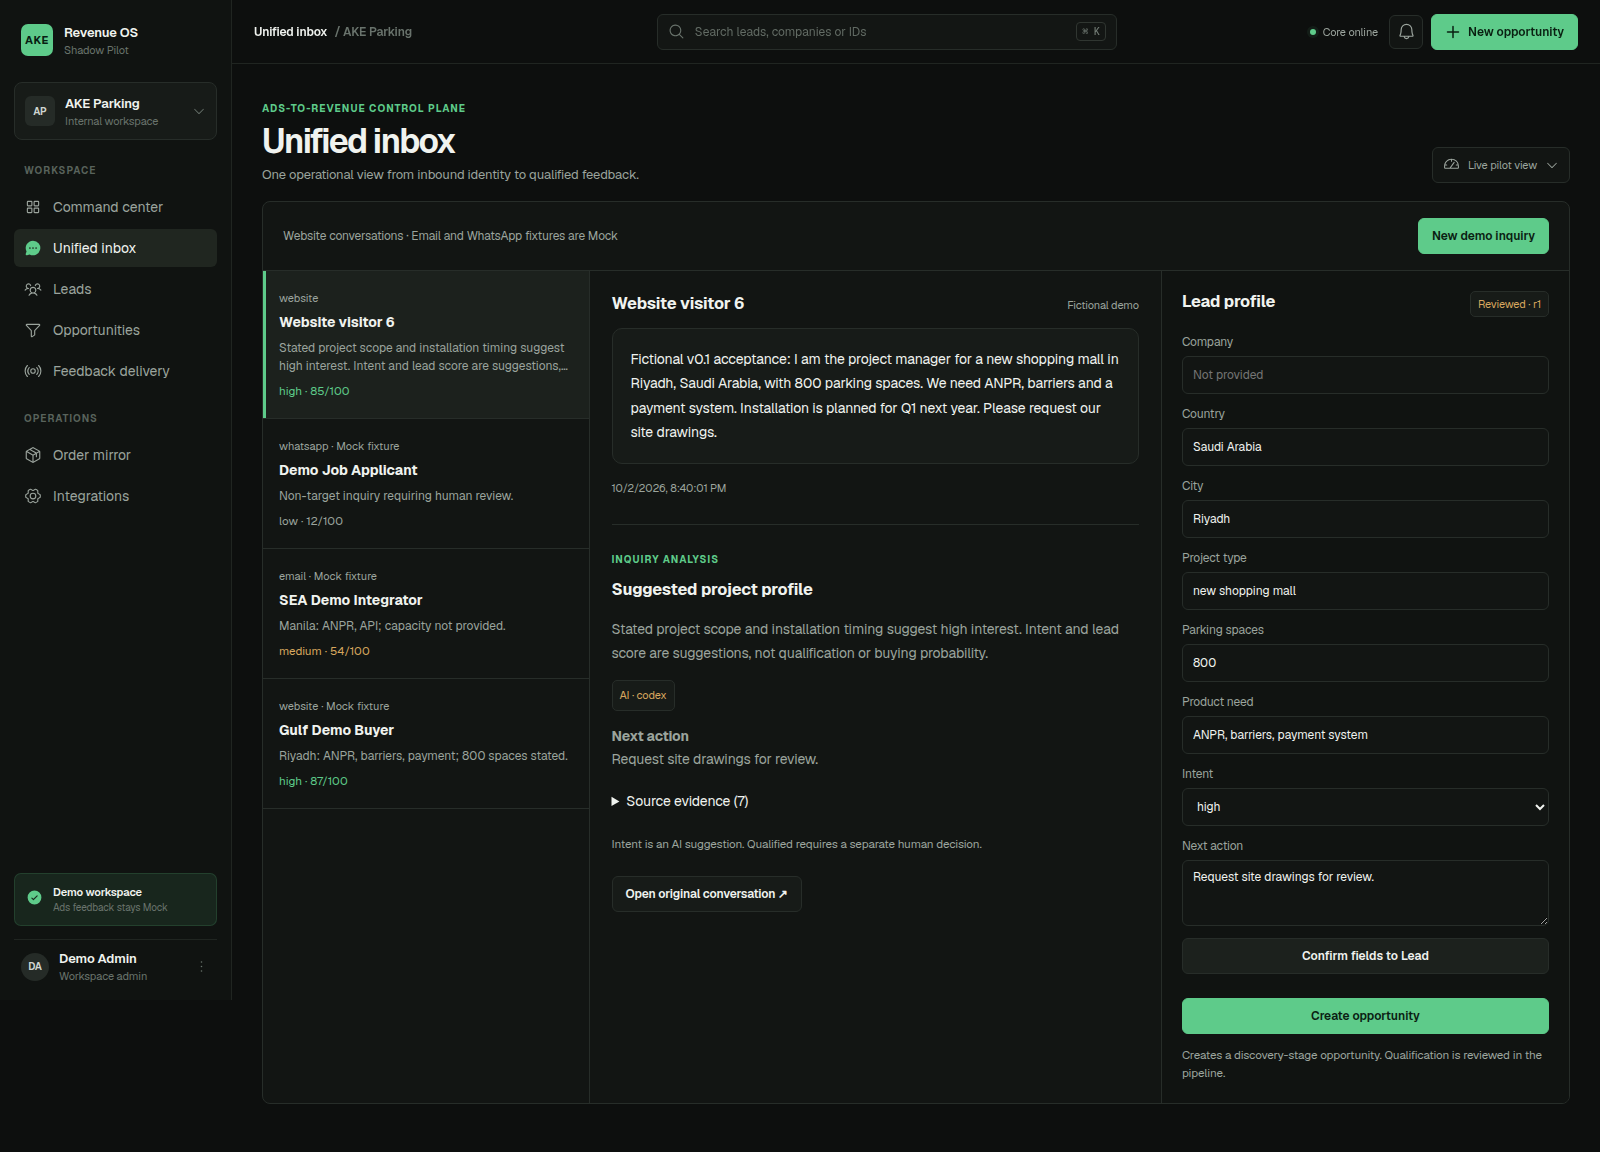
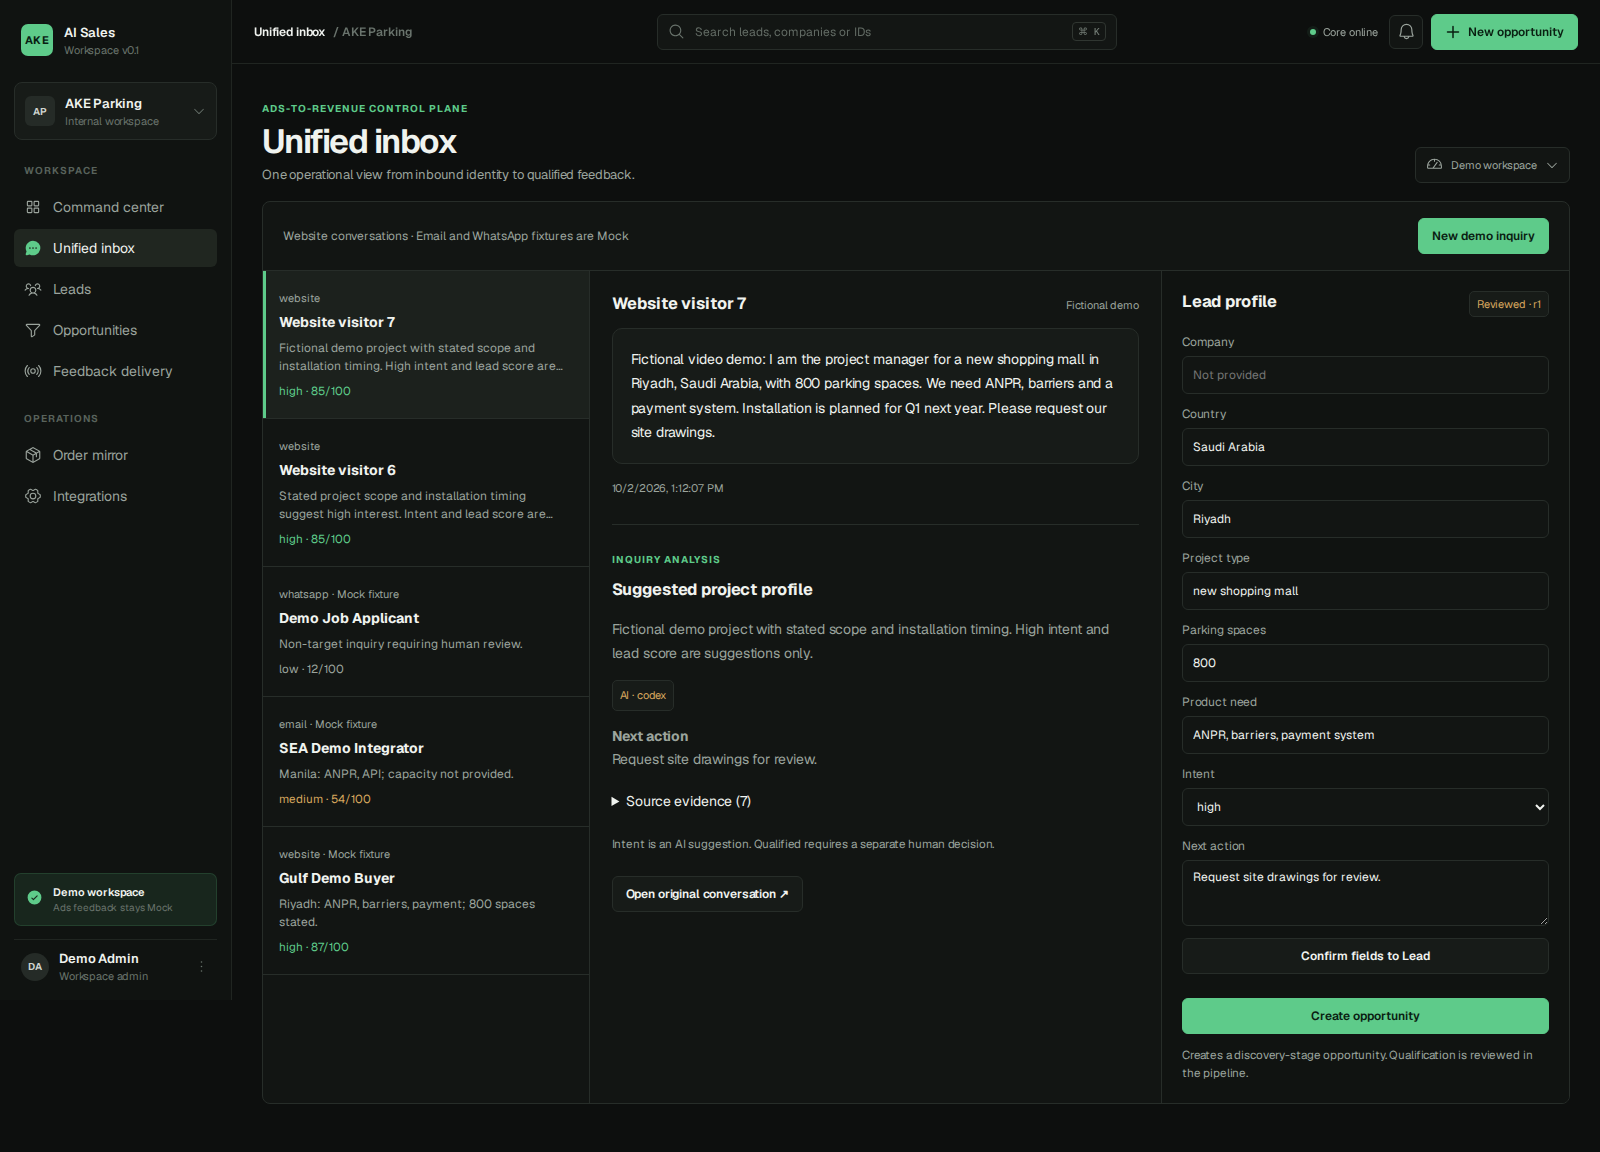
Publish verified walkthrough and final v0.1 acceptance evidence

diff --git a/scripts/render-demo.py b/scripts/render-demo.py
@@ -5,6 +5,8 @@ from pathlib import Path
 root = Path(sys.argv[1]).resolve()
 manifest = json.loads((root / 'recording.json').read_text())
 segments = manifest['segments']
+# Preserve any offset established by reviewing the recording's real scene transitions.
+video_offset = manifest.get('video_offset_seconds', 0)
 clips = root / 'clips'
 clips.mkdir(exist_ok=True)
 offset = 0
@@ -15,7 +17,7 @@ def clock(seconds, separator='.'):
 for index, segment in enumerate(segments):
     duration = segment['end'] - segment['start']
     path = clips / f'{index:02}.mp4'
-    subprocess.run(['ffmpeg','-v','error','-y','-ss',str(segment['start']),'-i',manifest['source'],'-t',str(duration),'-an','-vf','scale=1920:1008:force_original_aspect_ratio=decrease:flags=lanczos,pad=1920:1080:(ow-iw)/2:0:color=0x0d1110,fps=30','-c:v','libx264','-preset','fast','-crf','20','-pix_fmt','yuv420p',str(path)],check=True)
+    subprocess.run(['ffmpeg','-v','error','-y','-ss',str(segment['start']+video_offset),'-i',manifest['source'],'-t',str(duration),'-an','-vf','scale=1920:1008:force_original_aspect_ratio=decrease:flags=lanczos,pad=1920:1080:(ow-iw)/2:0:color=0x0d1110,fps=30','-c:v','libx264','-preset','fast','-crf','20','-pix_fmt','yuv420p',str(path)],check=True)
     actual = float(subprocess.check_output(['ffprobe','-v','error','-show_entries','format=duration','-of','default=noprint_wrappers=1:nokey=1',str(path)],text=True))
     # Split long captions into two readable thoughts on the same beat.
     words = segment['caption'].split()

diff --git a/scripts/record-demo.py b/scripts/record-demo.py
@@ -21,8 +21,8 @@ with sync_playwright() as p:
     login.get_by_role('button', name='Sign in', exact=True).click()
     login.wait_for_url(workspace + '/workspace', timeout=30000)
     context = browser.new_context(viewport={'width': 1920, 'height': 1080}, storage_state=auth.storage_state(), record_video_dir=str(root / 'raw'), record_video_size={'width': 1920, 'height': 1080})
-    page = context.new_page()
     zero = time.monotonic()
+    page = context.new_page()
     def beat(title, caption, seconds, action):
         start = time.monotonic() - zero
         action()

diff --git a/docs/V01_ACCEPTANCE.md b/docs/V01_ACCEPTANCE.md
@@ -14,8 +14,8 @@ Date: 2026-10-02, Asia/Shanghai. All submitted inquiries, screenshots and publis
 | Three demo datasets | Passed: GCC high intent, SEA exploratory integrator, non-target applicant |
 | README | Completed: business problem, public links, reproducible setup, scope and verification |
 | Architecture diagram | Completed: [SVG](architecture.svg), [Mermaid source](architecture.mmd), [data ownership](ARCHITECTURE.md) |
-| Demo video | Final recording and publication in progress |
-| GitHub is portfolio-ready | Source and evidence prepared; final publication in progress |
+| Demo video | Completed: [2:40 actual browser walkthrough](https://demo.jayln3.my:8443/sales#walkthrough), H.264 1920×1080 / 30 fps, English captions |
+| GitHub is portfolio-ready | Completed: public source, business README, screenshots, architecture, demo video, reproducible scripts and passing GitHub checks |
 
 ## Runtime proof
 
@@ -25,12 +25,20 @@ The [restart and replay receipt](evidence/restart-readback.json) verifies the sa
 
 The [local browser receipt](evidence/local-browser.json) records 14 checks: operator login, unauthenticated API rejection, intake, automatic analysis, reviewed Lead, opportunity, stage, human qualification, Mock receipt, replay deduplication, bridge-route isolation, origin protection, mobile overflow and no browser page errors.
 
+The [final restart receipt](evidence/restart-final.json) repeats the same checks after recording the video: 5 Leads, 2 Opportunities and 2 independent Mock deliveries survived restart without duplicates.
+
+## Video verification
+
+The [video record](evidence/demo-video.json) identifies conversation 7 / message 32, the real Codex provider, Lead and stable event used in the recording. The 160-second MP4 uses actual browser actions, with only waiting time removed. It has burned-in English captions, an optional VTT track and no audio. Source evidence, human qualification, receipt mode and the final integration states were visually checked.
+
+[Published playback checks](evidence/published-playback.json) passed: public page HTTP 200, actual 1920×1080 playback, advancing playback time, seeking to 130 seconds, MP4 byte-range HTTP 206, VTT HTTP 200, unauthenticated CRM HTTP 401 and no browser page errors.
+
 ## Code verification
 
 - 27 tests passed: 4 requirement-engine, 2 shared-contract, 19 core (including real PostgreSQL) and 2 formatting tests.
 - TypeScript checks and production builds passed.
 - Public-source scan and Git whitespace checks passed. No database dump, credential file, private knowledge file, raw customer export or machine-specific path is part of the release.
-- The [CI workflow](../.github/workflows/ci.yml) repeats dependency installation, migrations, PostgreSQL tests, type checks, build and the public-source scan.
+- [GitHub CI](https://github.com/akeparking/ake-revenue-intelligence/actions/runs/37011553617) passed for the complete application implementation. The [CI workflow](../.github/workflows/ci.yml) repeats dependency installation, migrations, PostgreSQL tests, type checks, build and the public-source scan.
 
 ## Deployment and boundaries
 

diff --git a/docs/DEMO_VIDEO_SCRIPT.md b/docs/DEMO_VIDEO_SCRIPT.md
@@ -1,17 +1,17 @@
 # Demo video narrative
 
-Target: 2–3 minutes, 1920×1080, actual browser footage with concise English captions. No fabricated clicks, fabricated model results, customer data or advertising success claims.
+Final runtime: 2 minutes 40 seconds, 1920×1080, actual browser footage with concise English captions. No fabricated clicks, fabricated model results, customer data or advertising success claims.
 
 | Beat | Approximate duration | Screen action / point |
 |---|---:|---|
 | Business problem | 12 s | Public project page: scattered inquiries lose context between sales and marketing |
-| Website inquiry | 22 s | Submit a fictional GCC project through the real website chat |
-| AI and source evidence | 28 s | Open the received conversation in the workspace, show verified AI mode and exact evidence |
+| Website inquiry | 24 s | Submit a fictional GCC project through the real website chat |
+| AI and source evidence | 24 s | Open the received conversation in the workspace, show verified AI mode and exact evidence |
 | Human review | 22 s | Keep unknowns blank, confirm fields to Lead, create an opportunity |
 | Sales progression | 18 s | Move the opportunity from Discovery to Solution |
-| Qualification | 20 s | Explicitly confirm buyer fit, reachable contact, need and next action |
-| Feedback | 18 s | Expand the stable event and Mock receipt; distinguish it from live ad attribution |
-| Three scenarios and boundaries | 15 s | Compare high / medium / non-target fixtures and actual integration states |
+| Qualification | 22 s | Explicitly confirm buyer fit, reachable contact, need and next action |
+| Feedback | 20 s | Expand the stable event and Mock receipt; distinguish it from live ad attribution |
+| Three scenarios and boundaries | 18 s | Compare high / medium / non-target fixtures and actual integration states |
 
 The recording uses the deployed application. Model waiting time is shortened, with a caption explaining that waiting time was omitted. Captions describe observed behavior only. Final duration, file properties and playback checks are recorded in the acceptance record.
 

diff --git a/docs/ARCHITECTURE.md b/docs/ARCHITECTURE.md
@@ -24,7 +24,7 @@ The full editable graph is [architecture.mmd](architecture.mmd).
 - **Reception** authenticates webhook timestamps/signatures, checks account and inbox scope, serializes calls and caps initial replies. The model cannot write CRM or advertising state. The existing demo permits at most two initial replies and stops on human takeover.
 - **CRM outbox** retains an event until Revenue Core returns a saved inquiry and Lead ID. A CRM failure does not resend the visitor reply. Source message IDs remain stable on retry.
 - **Revenue Core** owns the Lead, inquiry projection, human review, opportunity, stage history, conversion event and delivery ledger. Imported live analyses require both the API key and a separate bridge key.
-- **PostgreSQL** persists the business workflow. Inquiry content uses AES-256-GCM when the required deployment field key is set. Operator APIs are authenticated; the public project page has no access to CRM records.
+- **PostgreSQL** persists the business workflow. Original inquiry message text uses AES-256-GCM when the required deployment field key is set. Operator APIs are authenticated; the public project page has no access to CRM records.
 - **Workspace** uses a signed, expiring HttpOnly session, origin checks and an exact backend route allowlist. It cannot proxy bridge ingestion or public webhook routes.
 - **Advertising** is Mock in this deployment. The immutable delivery mode prevents a stored Mock event from becoming live merely because environment configuration changes.
 

diff --git a/README.md b/README.md
@@ -2,7 +2,7 @@
 
 **An overseas B2B inquiry becomes a reviewed Lead, a sales opportunity, and an auditable conversion event.**
 
-[Online demo](https://demo.jayln3.my:8443/sales) · [Watch the video](https://demo.jayln3.my:8443/sales#walkthrough) · [Website inquiry](https://demo.jayln3.my:8443/) · [Operator workspace](https://demo.jayln3.my:8443/sales/workspace) · [Architecture](docs/ARCHITECTURE.md)
+[Online demo](https://demo.jayln3.my:8443/sales) · [Watch the video · 2:40](https://demo.jayln3.my:8443/sales#walkthrough) · [Website inquiry](https://demo.jayln3.my:8443/) · [Operator workspace](https://demo.jayln3.my:8443/sales/workspace) · [Architecture](docs/ARCHITECTURE.md)
 
 Export sales teams receive project requirements in conversation, then lose context while copying them into a CRM. Marketing sees the original lead but often misses the sales team's qualification decision. This project connects the message, evidence, human decision and feedback event in one traceable workflow.
 
